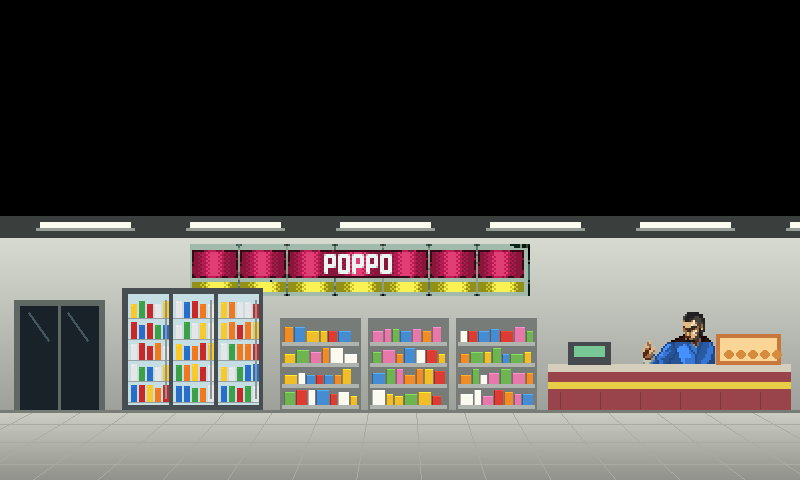
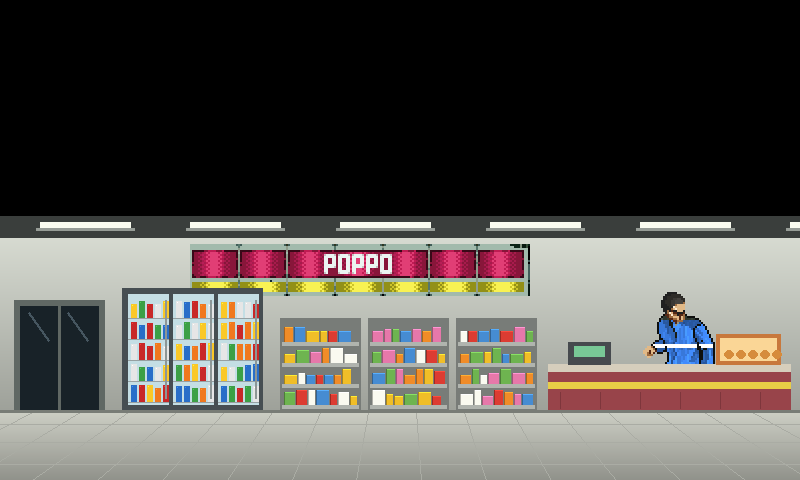
Poppo's clerk in uniform, out through its door; Kamurocho's street foes lighter, no Self-Destruct
- Poppo's clerk: a man standing at ease in Poppo's blue uniform, not the
  Salaryman squaring up for a fight.
- Leaving Poppo: walk up into its glass door (or press A before it); its left
  edge is a wall now.
- Street foes keep their own HP rather than three times it (FOE_HP_SCALE);
  bosses (Majima) are still scaled.
- The Drunk Salaryman's poison kick is "Drunken Kick", not "Essence of
  Self-Destruct".

Claude-Session: https://claude.ai/code/session_01No5GwUqzDzshMkM4ySchmL

Changed region(s): [[0.7812, 0.5938, 0.9062, 0.7812]]

diff --git a/engine/battle.js b/engine/battle.js
@@ -4060,8 +4060,9 @@
 // user's own elements. Defending halves what you take. Running away works half the time, more if you're quicker;
 // never from a boss.
 //
-// HP: everyone's is HP_SCALE times what their stats say (a fighter's, a foe's and a Pokémon's alike), and every heal
-// with it, so fights last a while. A Pokémon's HP goes back to it divided again.
+// HP: everyone's is HP_SCALE times what their stats say (a fighter's, a boss's and a Pokémon's alike), and every heal
+// with it, so fights last a while; the street's random foes keep their own HP (FOE_HP_SCALE), so they go down quickly.
+// A Pokémon's HP goes back to it divided again.
 //
 // The Pokémon realm's ways come with its Pokémon, and work for everyone:
 //   stat stages   -6 to +6 on Strength, Defense, Intelligence, Wisdom and Speed (2/2 → 8/2, as Attack and the rest),
@@ -4081,7 +4082,7 @@
   "use strict";
   const D = () => ({ skills: window.REALM_SKILLS, fighters: window.REALM_FIGHTERS, foes: window.REALM_FOES, items: window.REALM_ITEMS, chart: window.REALM_TYPE_CHART });
   function rng(seed) { let s = (seed >>> 0) || 1; return () => ((s = (s * 1664525 + 1013904223) >>> 0) / 4294967296); }
-  const HP_SCALE = 3;
+  const HP_SCALE = 3, FOE_HP_SCALE = 1;
 
   // EXP to reach `lv` (from level 1), and a fighter's stats and skills at a level.
   const expFor = (lv) => Math.round(10 * Math.pow(lv - 1, 2.5));
@@ -4254,8 +4255,8 @@
   // A skill by its id: the fighter's own (a Pokémon's moves) or REALM_SKILLS'.
   const skillOf = (who, id) => (who.own && who.own[id]) || D().skills[id];
   function foe(id, letter) {
-    const f = D().foes[id];
-    return fighter({ side: "foe", id, name: f.name + (letter ? " " + letter : ""), elements: f.elements, hp: f.hp * HP_SCALE, mp: f.mp, maxHp: f.hp * HP_SCALE, maxMp: f.mp,
+    const f = D().foes[id], hp = f.hp * (f.boss ? HP_SCALE : FOE_HP_SCALE);
+    return fighter({ side: "foe", id, name: f.name + (letter ? " " + letter : ""), elements: f.elements, hp, mp: f.mp, maxHp: hp, maxMp: f.mp,
       str: f.str, def: f.def, int: f.int || 0, wis: f.wis || 0, spd: f.spd, skills: f.skills || [], boss: !!f.boss });
   }
   function create(members, foeIds, opts) {
@@ -4710,5 +4711,5 @@
   // An item's text, its HP as HP_SCALE makes it ("{hp}" in REALM_ITEMS' text).
   const itemText = (id) => String(D().items[id].text).replace(/\{hp\}/g, () => String(D().items[id].heal * HP_SCALE));
   window.Ultimax = { create, turn, spoils, gainExp, keep, member, recruit, rescale, stats, skillsAt, expFor, effect, foeChoice, up,
-    pokemon, pokemonSkill, pokemonElements, pokemonExp, skillOf, unsupported, itemText, groupsFor, TYPE_ELEMENT, HP_SCALE, STATUS_TAG };
+    pokemon, pokemonSkill, pokemonElements, pokemonExp, skillOf, unsupported, itemText, groupsFor, TYPE_ELEMENT, HP_SCALE, FOE_HP_SCALE, STATUS_TAG };
 })();

diff --git a/data/kamurocho-street.js b/data/kamurocho-street.js
@@ -1,7 +1,8 @@
 // Kamurocho, side on (ui/street.js): Streets of Kamurocho's own streets (tools/build-kamurocho-sok.py), walked as its
 // beat-'em-up's are, along the street and up and down its pavement. Each scene: its picture (480 high, the floor at
 // the bottom), the floor you can walk on (a polygon, in the picture's pixels), its ways out (`exits`: walk off an
-// edge, or into a door's spot facing up, to the other scene's x and y), its spots (stand in one and press A: its
+// edge, a door's spot and A, or a spot with `walk`: walking that way out of it, as through Poppo's door; to the
+// other scene's x and y), its spots (stand in one and press A: its
 // script), and its people (each a SoK sprite from assets/kamurocho/people, standing about or walking rather than
 // squaring up as in a fight (the "_idle" frames), their scripts and words as ui/game.js
 // knows them: Kamurocho_Kiryu and the rest; `face` the way they look). Fights start on the street as you walk
@@ -24,7 +25,7 @@ window.KAMUROCHO_STREET = {
       floor: [[0, 150], [800, 150], [1300, 392], [2900, 394], [3075, 462], [3075, 470], [1000, 470], [460, 220], [0, 220]],
       exits: [{ edge: "right", to: "alley", x: 30, y: 446, facing: "right" },
         { spot: [2960, 3040, 425, 452], to: "bacchus", x: 40, y: 448, facing: "right", text: "Bacchus" },
-        { spot: [670, 770, 150, 168], to: "poppo", x: 130, y: 440, facing: "right", text: "Poppo" },
+        { spot: [670, 770, 150, 168], to: "poppo", x: 59, y: 420, facing: "down", text: "Poppo" },
         { spot: [520, 576, 184, 206], to: "sewer", x: 90, y: 440, facing: "right", text: "Manhole" }],
       // (the manhole cover on the pavement outside Serena: the way down to the Time Machine)
       things: [{ image: "assets/kamurocho/manhole.png", x: 548, y: 204, scale: 1, floor: true }],
@@ -58,8 +59,9 @@ window.KAMUROCHO_STREET = {
     // counter: stand before it and press A to buy.)
     poppo: {
       title: "Poppo", image: "assets/kamurocho/poppo.png", width: 800,
-      floor: [[0, 414], [800, 414], [800, 470], [0, 470]],
-      exits: [{ edge: "left", to: "street", x: 720, y: 172, facing: "down" }],
+      floor: [[16, 414], [800, 414], [800, 470], [16, 470]],
+      // (out through the glass door on the left: walk up into it, or press A before it)
+      exits: [{ spot: [20, 98, 414, 424], walk: "up", to: "street", x: 720, y: 172, facing: "down", text: "Door" }],
       spots: [{ x0: 548, x1: 790, y0: 414, y1: 470, script: "Kamurocho_Clerk", text: "Clerk" }]
     },
     // (Under the manhole by Serena: the storm drain where the Time Machine stands, tools/build-kamurocho-insides.py.

diff --git a/data/type-chart.js b/data/type-chart.js
@@ -80,7 +80,7 @@ window.REALM_SKILLS = {
   mad_dog_shimano:{ name: "Essence of the Thug: Finisher",   mp: 16, element: "Dark",   kind: "phys",  power: 3.2, target: "one" },
   // (the street's)
   cheap_shot:    { name: "Essence of Ass Crushing",            mp: 0, element: "Neutral", kind: "phys",  power: 1.3, target: "one" },
-  dirty_kick:    { name: "Essence of Self-Destruct",            mp: 0, element: "Poison",  kind: "phys",  power: 1.1, target: "one", status: "poison", chance: 0.3 },
+  dirty_kick:    { name: "Drunken Kick",                        mp: 0, element: "Poison",  kind: "phys",  power: 1.1, target: "one", status: "poison", chance: 0.3 },
   bottle_smash:  { name: "Essence of Wreckage",          mp: 0, element: "Earth",   kind: "phys",  power: 1.4, target: "one" },
   slash:         { name: "Essence of Back Breaking",           mp: 0, element: "Steel",   kind: "phys",  power: 1.4, target: "one" },
   sweet_talk:    { name: "Essence of Door Slamming",            mp: 0, element: "Psychic", kind: "status", status: "sleep", chance: 0.5, target: "one" },

diff --git a/tests/smoke-test.js b/tests/smoke-test.js
@@ -7250,7 +7250,8 @@ console.log("ok: Gen 9, " + GEN9 + " random battles finished (" + gen9Turns + " 
     const old = { id: "kiryu", lv: 5, exp: R.expFor(5), hp: 20, mp: 5 };
     R.rescale(old);
     assert(old.hp === 20 * R.HP_SCALE && old.hpScale === R.HP_SCALE && R.stats("kiryu", 5).hp % R.HP_SCALE === 0);
-    assert.strictEqual(R.create([], ["punk"]).foes[0].maxHp, window.REALM_FOES.punk.hp * R.HP_SCALE);
+    assert.strictEqual(R.create([], ["punk"]).foes[0].maxHp, window.REALM_FOES.punk.hp * R.FOE_HP_SCALE, "the street's foes keep their own HP");
+    assert.strictEqual(R.create([], ["majima"]).foes[0].maxHp, window.REALM_FOES.majima.hp * R.HP_SCALE, "a boss's is scaled");
     const mon = (moves) => { const m = Party.create("Machamp", 50, { moves }); return R.pokemon(m, Party.stats(m), "Machamp"); };
     // (Swords Dance: Strength two stages up, the damage with it.)
     const sd = mon(["Swords Dance", "Protect", "Thunder Punch", "Bulk Up"]);

diff --git a/ui/street.js b/ui/street.js
@@ -174,6 +174,9 @@
           // (off the street's end: the next scene)
           const edge = (S.exits || []).find((e) => (e.edge === "left" && nx < 4) || (e.edge === "right" && nx > S.width - 4));
           if (edge) { go(edge); continue; }
+          // (out of a door: walking into it, from the spot before it, the way it's `walk`ed)
+          const door = (S.exits || []).find((e) => e.walk === dir && e.spot && me.x >= e.spot[0] && me.x <= e.spot[1] && me.y >= e.spot[2] && me.y <= e.spot[3] && !onFloor(nx, ny));
+          if (door) { go(door); continue; }
           if (onFloor(nx, ny) && !blocked(nx, ny, opts)) { me.x = nx; me.y = ny; }
           else if (onFloor(nx, me.y) && !blocked(nx, me.y, opts)) me.x = nx;
           else if (dx) {

diff --git a/tools/build-kamurocho-insides.py b/tools/build-kamurocho-insides.py
@@ -3,8 +3,8 @@
 # has no insides of its shops, nor anything under its streets.
 #
 # Poppo, the convenience store, put together from the street's own pictures: Poppo's
-# sign off its shopfront on the street (assets/kamurocho/street.png), and its clerk the Salaryman
-# (people/salaryman.png) in Poppo's blue and white, behind the counter; the shelves, the drinks fridge, the counter
+# sign off its shopfront on the street (assets/kamurocho/street.png), and its clerk (people/loiterer.png, standing
+# at ease) in Poppo's blue and white uniform, behind the counter; the shelves, the drinks fridge, the counter
 # and the floor are drawn here, in the street's colours and its 480-high frame (the floor at the bottom).
 #
 # Under the manhole by Serena: a storm drain's chamber, the ladder down at its left, a culvert behind, and the Time
@@ -82,22 +82,23 @@ def poppo():
                 d.line((x, y + 16 - h, min(x + w, x1 - 4), y + 16 - h), fill=shade(c, 1.25))
                 d.line((x, y + 16 - h, x, y + 15), fill=shade(c, 0.7))
                 x += w + 2
-    # The clerk, behind the counter: the Salaryman, his jacket Poppo's blue and his shirt white.
-    clerk = Image.open(os.path.join(K, 'people/salaryman.png')).convert('RGBA').transpose(Image.FLIP_LEFT_RIGHT)
+    # The clerk, behind the counter: someone standing at ease (people/loiterer.png, hands at his sides, not squaring
+    # up), his grey-green jacket made Poppo's blue uniform, a white stripe across it at the chest as the shop's own.
+    clerk = Image.open(os.path.join(K, 'people/loiterer.png')).convert('RGBA').transpose(Image.FLIP_LEFT_RIGHT)
     px = clerk.load()
     for y in range(clerk.height):
         for x in range(clerk.width):
             r, g, b, a = px[x, y]
             if not a: continue
             lum = (r + g + b) / 3
-            # (the dark suit: Poppo's blue, as bright as it was dark)
-            if max(r, g, b) - min(r, g, b) < 40 and lum < 90 and y > 14:
-                k = 0.6 + lum / 90
-                px[x, y] = (int(46 * k), int(98 * k), int(178 * k), a)
+            # (the jacket: greener than it is red, above the waist; as bright a blue as it was)
+            if g > r + 4 and 30 < lum < 150 and 14 < y < 46:
+                k = 0.45 + lum / 110
+                px[x, y] = (255, 255, 255, a) if y in (27, 28) else (min(255, int(46 * k)), min(255, int(98 * k)), min(255, int(178 * k)), a)
     cs = 2
     clerk = clerk.resize((clerk.width * cs, clerk.height * cs), Image.NEAREST)
     cx = (COUNTER[0] + COUNTER[1]) // 2 + 10
-    im.alpha_composite(clerk, (cx - clerk.width // 2, FLOOR_Y + 58 - clerk.height))
+    im.alpha_composite(clerk, (cx - clerk.width // 2, FLOOR_Y + 34 - clerk.height))
     # The counter: its top, the till, the hot food case, and its front.
     top = FLOOR_Y - 46
     d.rectangle((COUNTER[0], top, COUNTER[1], top + 8), fill=(214, 206, 188))

diff --git a/README.md b/README.md
@@ -3644,10 +3644,10 @@ balls here (bring them along at the Time Machine to fight), and there are no wil
   the pavement outside Serena, a storm drain where the Time Machine stands. **Poppo**: the convenience store, through its door (every convenience store on the street
   can be gone into; Poppo's the one). Streets of Kamurocho has no insides of its shops, so this one is this game's own
   (`tools/build-kamurocho-insides.py`): Poppo's sign off its shopfront, its shelves, drinks fridge and counter drawn in
-  the street's colours, and its clerk the Salaryman in Poppo's blue, behind the counter. The storm drain under the
+  the street's colours, and its clerk, a man standing at ease in Poppo's blue uniform, behind the counter. The storm drain under the
   street is drawn there too (a vault of wet concrete, pipes, a culvert, the ladder up, and the Time Machine three times
   over), and the manhole cover on the pavement. You're drawn twice your size, to stand as tall as its people. Walk off the street's end into
-  the alley (and back); stand at Bacchus's or Poppo's door and press A to go in (walk out the left to leave); in Poppo, stand at the counter
+  the alley (and back); stand at Bacchus's or Poppo's door and press A to go in (out of Bacchus, walk off its left; out of Poppo, walk up into its glass door); in Poppo, stand at the counter
   and press A to talk to the clerk and buy; on the manhole by Serena, A climbs down (the ladder, A, back up); the Time
   Machine's spot, A, is its menu. The floor you can walk on is each scene's polygon (along the slope, you go up or down it as
   you walk). You're placed by `player.location.street` ({ scene, x, y, facing }); the overworld rests while you're
@@ -3713,8 +3713,9 @@ taken from a Dragon Quest cartridge.
   (1 + the target's wisdom/200); a healing one its range times (1 + intelligence/200). Elements multiply by
   `REALM_TYPE_CHART` against the target's elements, and by 1.25 for one of the user's own elements. (Wisdom, new
   with these stats, starts at the average of each fighter's intelligence and defence, and grows the same way.)
-- **HP**: everyone's is `Ultimax.HP_SCALE` (3) times what their stats say: the fighters', the foes' and Pokémon's
-  alike, so fights last a while. Heals scale with it (an item's text shows the scaled amount), and a Pokémon's HP
+- **HP**: everyone's is `Ultimax.HP_SCALE` (3) times what their stats say: the fighters', a boss's and Pokémon's
+  alike, so fights last a while. The street's random foes keep the HP their stats say (`Ultimax.FOE_HP_SCALE`, 1),
+  so a Street Punk goes down in three or four hits at level 1. Heals scale with it (an item's text shows the scaled amount), and a Pokémon's HP
   goes back to it divided again (rounded up while it's standing). A party saved before keeps as much of its HP.
 - **Status**: the Pokémon realm's. Sleep (1 to 3 turns), poison (an eighth of HP at the end of each turn), bad
   poison (a sixteenth more each turn), paralysis (a quarter of the time it can't move, and half its speed), burn (a
